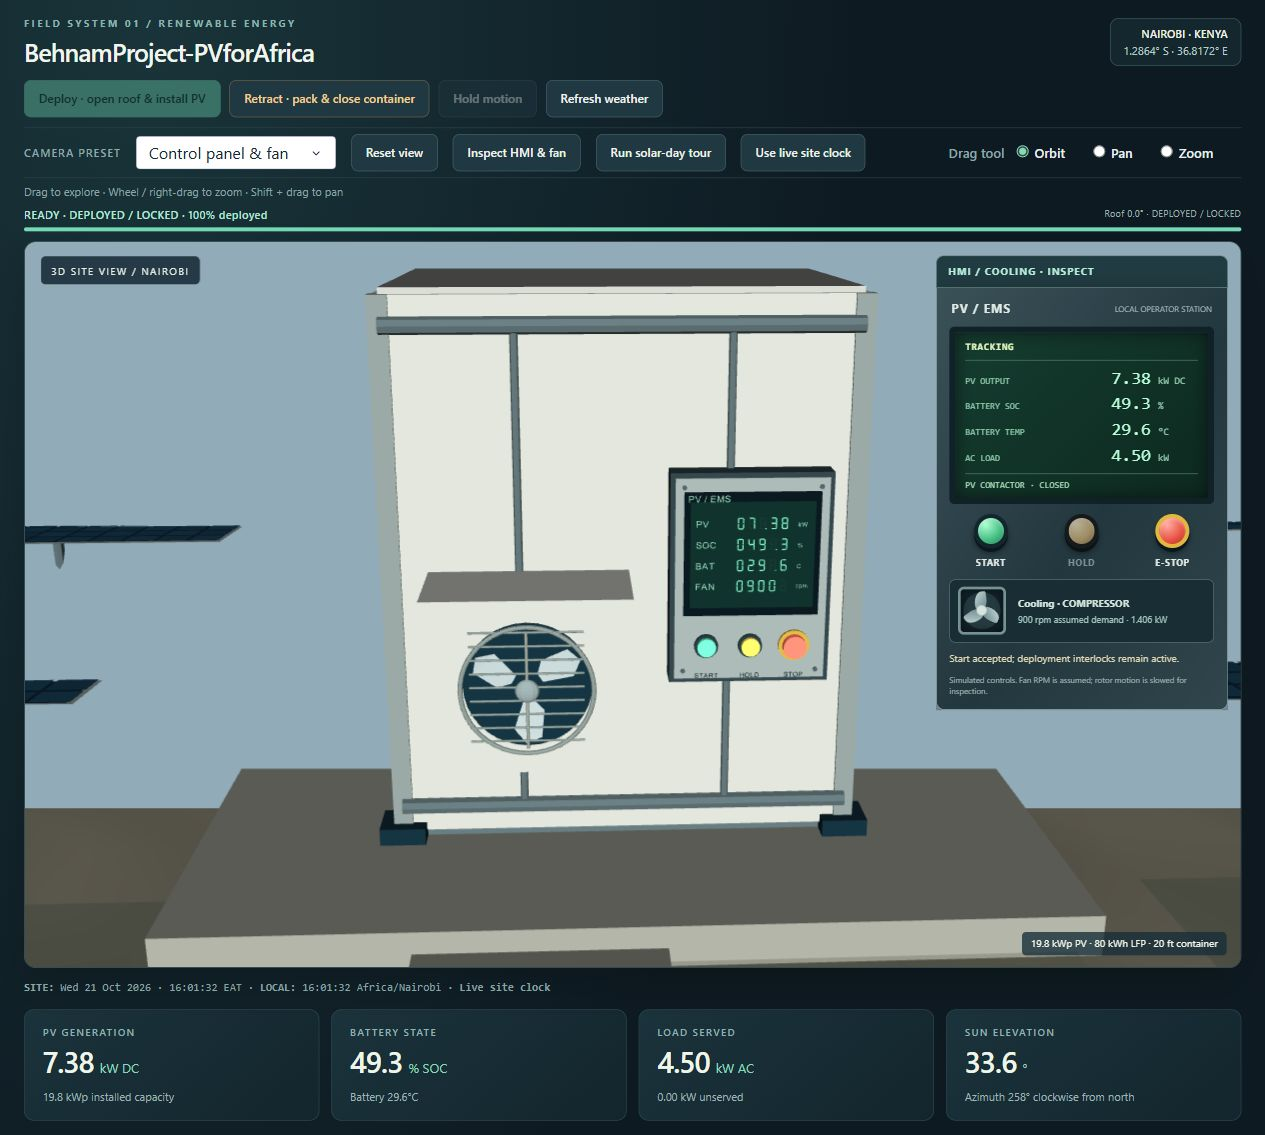
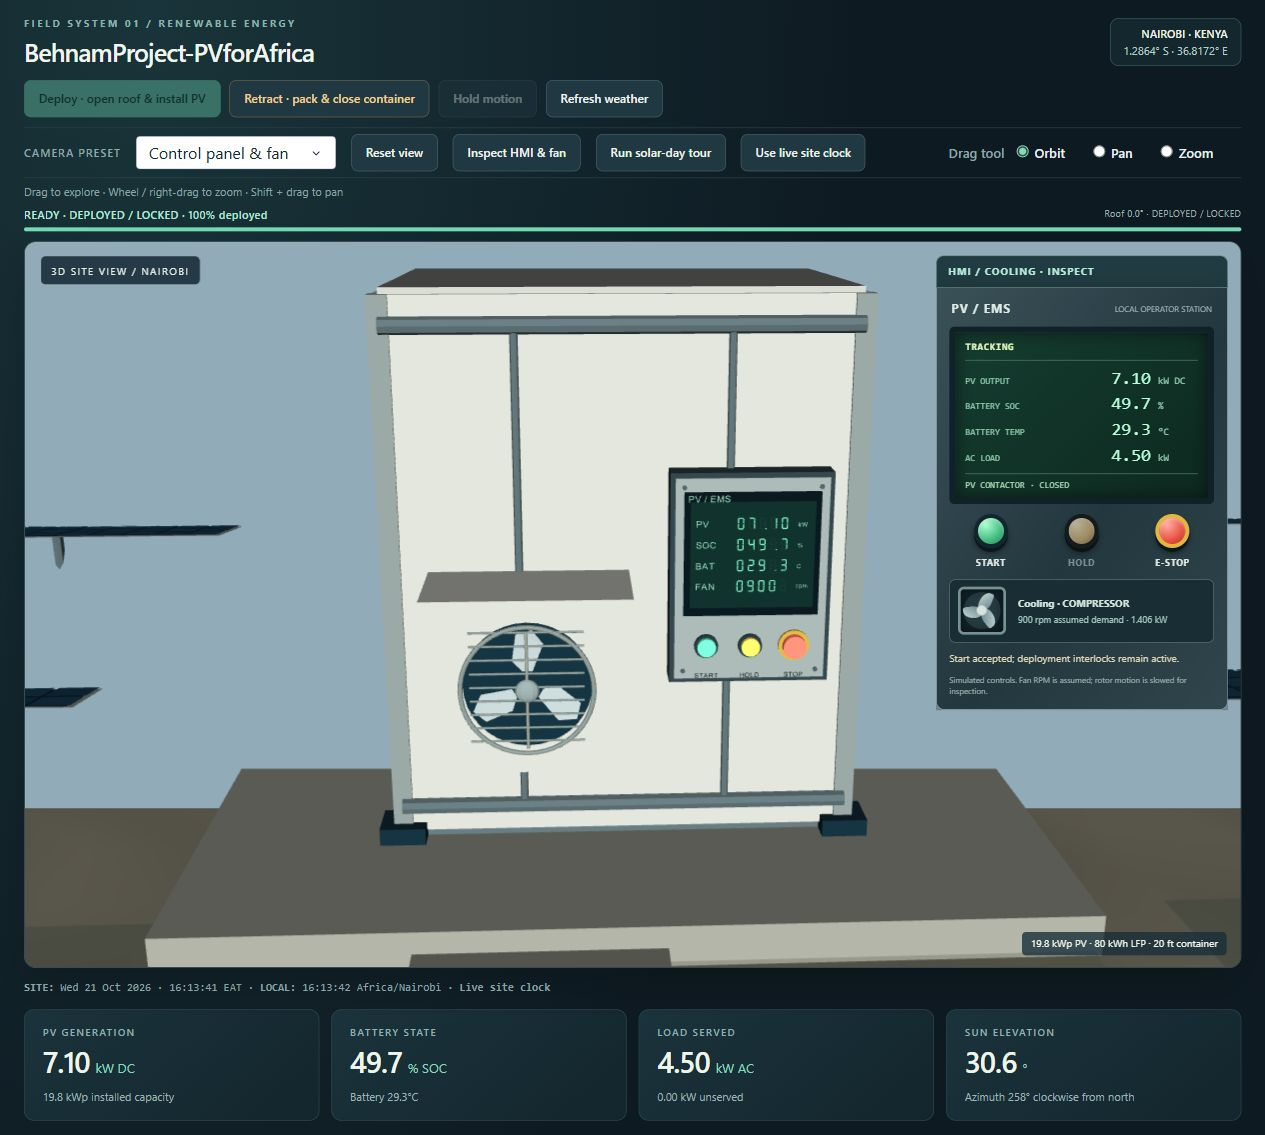
Record verified hosted HMI controls, fan preview and resource checks

diff --git a/README.md b/README.md
@@ -26,6 +26,8 @@ Example desktop workspace; values change with site time and weather. [Open the 1
 - Click the coloured buttons on the container or their matching full-size HMI controls: **green Start/Reset**, **yellow Hold/Resume**, **red latched simulated E-stop**. Resetting the stop does not restart the plant; press Start separately. The stop freezes mechanism/tracking motion and isolates PV generation while automatic protective cooling remains available.
 - Watch the three-blade cooling rotor turn when the model delivers HVAC power. Its separate animation sends one tiny rigid transform at 10 Hz; it does not solve the plant or stream the landscape. The HMI fan indicator animates locally with CSS. Both are slowed for inspection; the displayed 600/900 rpm demands are assumptions rather than measurements or OEM fan curves.
 
+[View the verified live HMI and cooling-fan close-up](assets/screenshots/control-panel-hmi.png).
+
 The mechanism and landscape are engineering illustrations, not a certified machine or a surveyed site. Current weather is model output; the plant state is simulated. Packed and moving panels contribute zero accepted PV generation.
 
 ![One-command deployment and reverse packing: fixed test-sun concept preview](assets/screenshots/deployment-sequence.gif)

diff --git a/VALIDATION.md b/VALIDATION.md
@@ -11,6 +11,15 @@ values, stable 160-cell display topology, duplicate-reading suppression, explici
 3D button picks and the fan's actual HTTP callback. Full-suite and Linux container
 results are recorded in GitHub Actions.
 
+The HMI/fan release passed **70 checks** in Linux CI. Its Docker test loaded two
+independent scenes and a real plant callback within a 512 MB memory cap, recording
+267.7 MiB with no OOM termination. The `/healthz` endpoint on the public service
+reported `hmi-fan-v1`. Actual browser checks on Render verified live LCD readings,
+the physical green start and red stop buttons, PV isolation with cooling retained,
+reset without automatic restart, and an explicit successful restart. The amber
+hold/resume sequence was also exercised in the local browser. These are functional
+and resource checks, not a cloud frame-rate or concurrency guarantee.
+
 Fresh 120-frame desktop comparison (same Python environment, no active browser
 preview): the prior release measured 10.09 ms median / 14.00 ms p95 for Python
 animation plus geometry encoding; the HMI release measured 6.26 / 10.10 ms.
